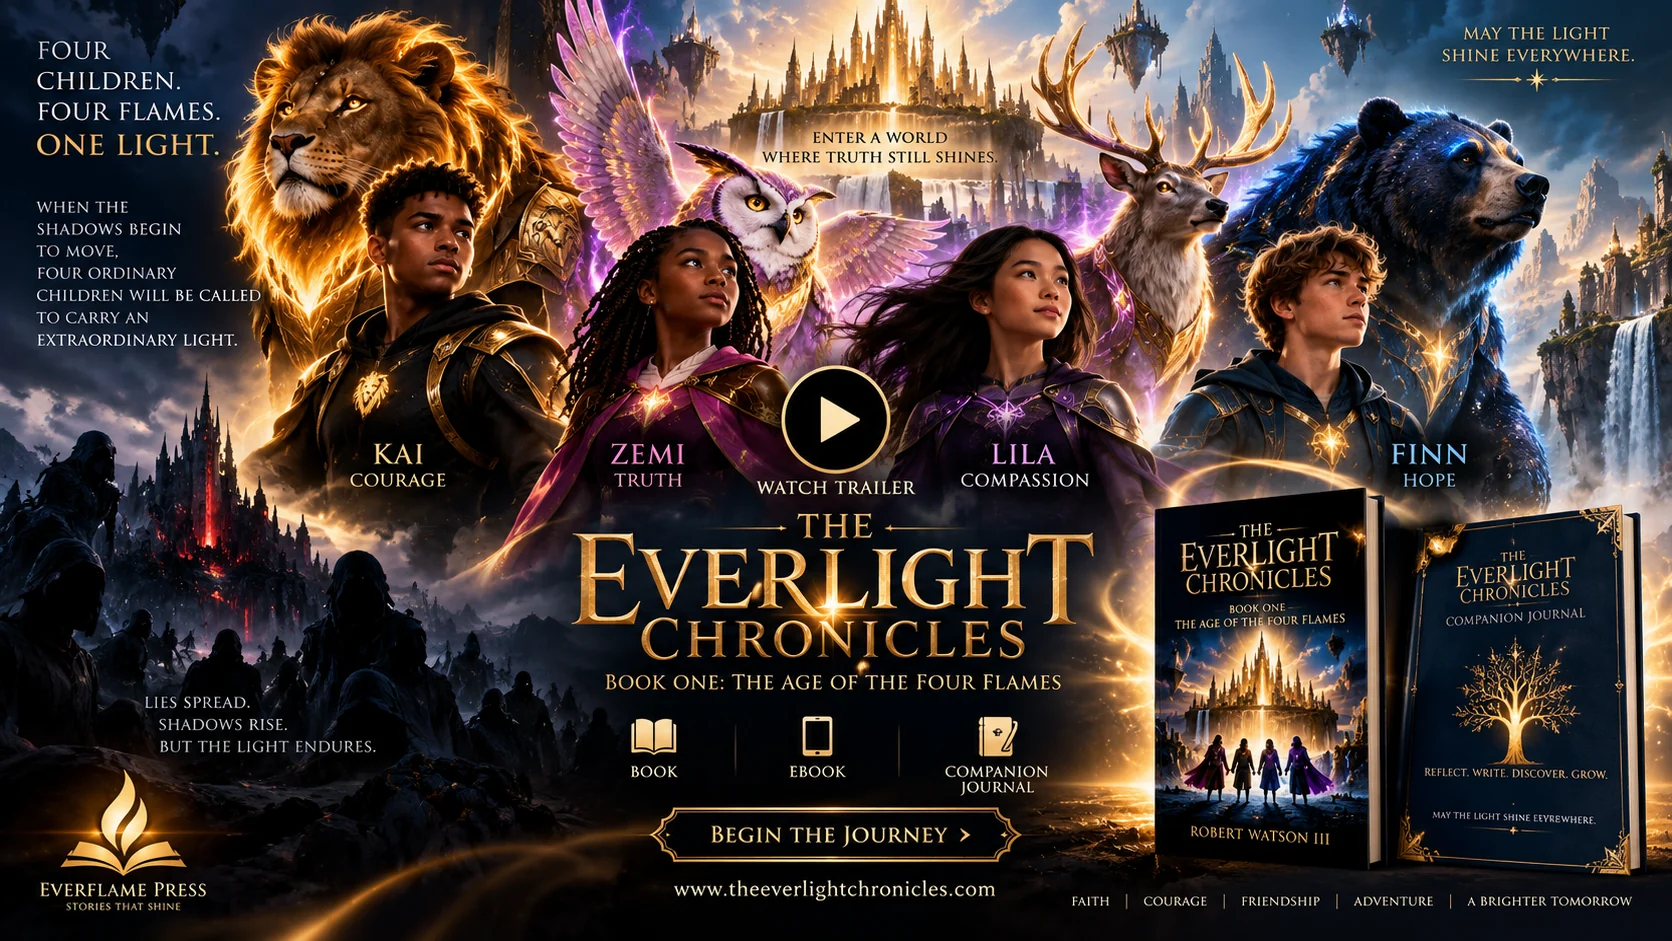
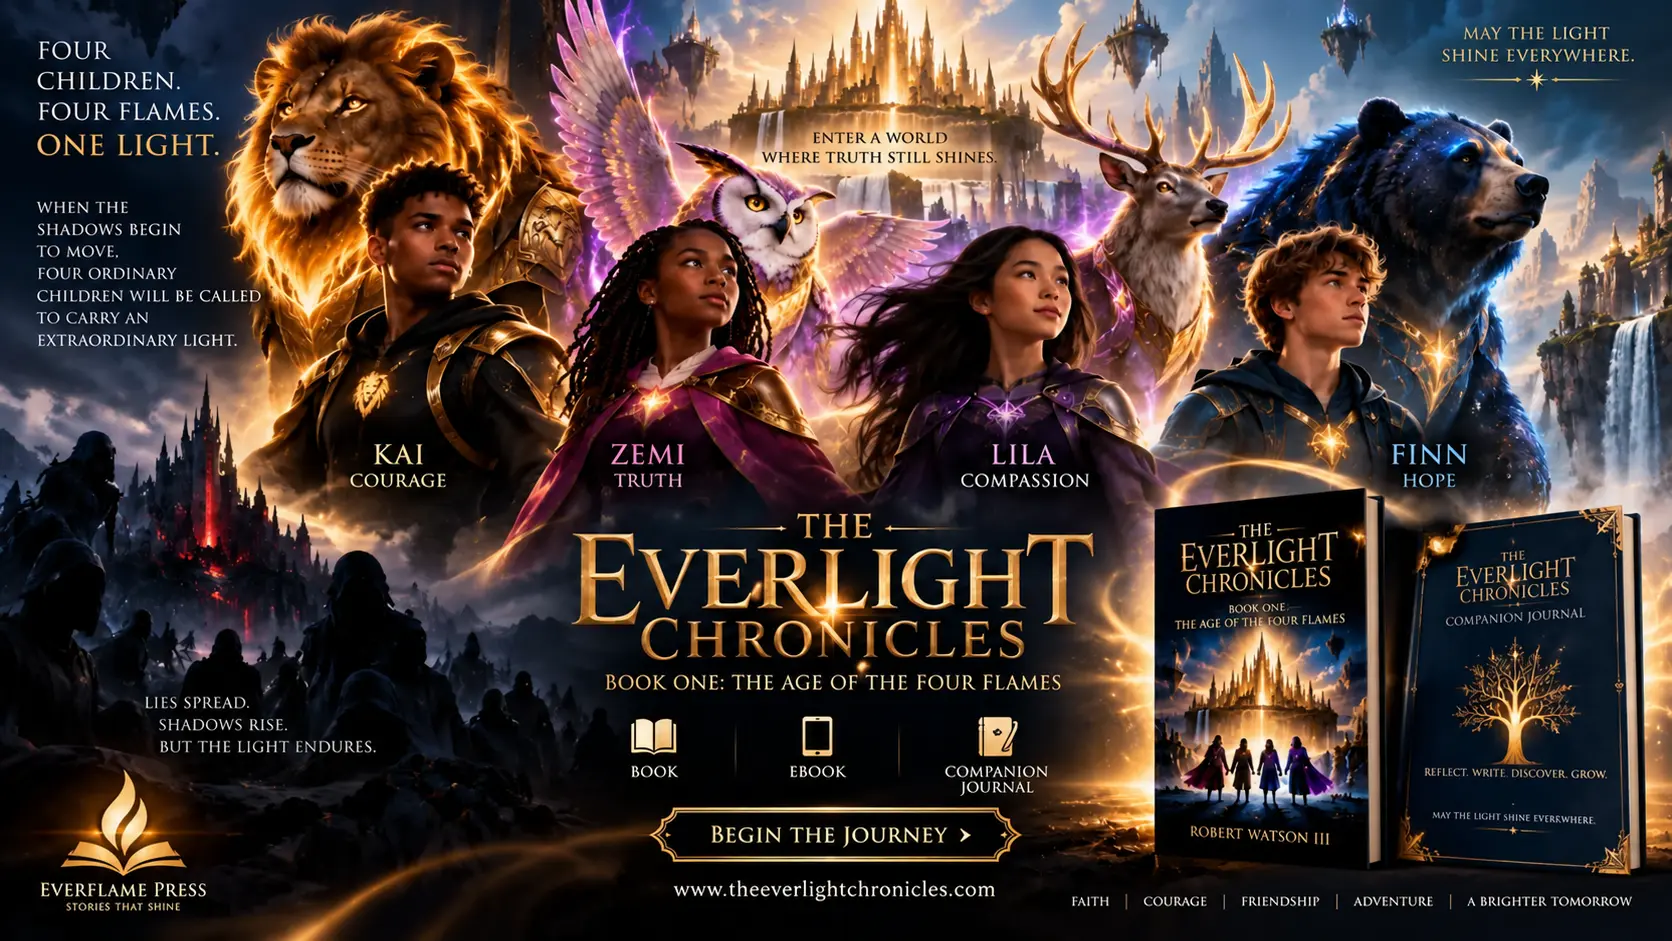
Restore soundtrack player and remove baked-in trailer button

diff --git a/index.html b/index.html
@@ -31,5 +31,6 @@
 <section class="author section" id="author"><div class="split reverse"><div class="author-img reveal"><img alt="Robert Watson III, author of The Everlight Chronicles" decoding="async" loading="lazy" src="assets/Meet the Fantasy Author.webp"/></div><div class="reveal"><p class="eyebrow">MEET THE AUTHOR</p><h2>Robert Watson III</h2><p>Creator of <em>The Everlight Chronicles</em>, a fantasy world built around truth, courage, hope, compassion, friendship, and choosing the Light when darkness offers an easier path.</p><blockquote>“Stories can do more than entertain — they can light the way.”</blockquote><a class="btn ghost" href="author.html">Read Robert's Story</a></div></div></section>
 <section class="journey" id="journey"><div class="journey-bg"></div><div class="reveal"><p class="eyebrow">BOOK ONE · AVAILABLE NOW</p><h2>Will You Carry the Light?</h2><p>Begin with <strong>The Age of the Four Flames</strong>, then continue the adventure with the Companion Journal.</p><div class="actions center"><a class="btn gold" href="https://www.lulu.com/shop/robert-watson-iii/the-everlight-chronicles/paperback/product-w484nzk.html" rel="noopener" target="_blank">Buy Paperback on Lulu</a><a class="btn gold" href="https://www.lulu.com/shop/robert-watson-iii/the-everlight-chronicles/ebook/product-kv4vedm.html" rel="noopener" target="_blank">Buy eBook on Lulu</a><a class="btn ghost" href="https://www.lulu.com/shop/robert-watson-iii/the-everlight-chronicles-companion-journal/paperback/product-57n7pm5.html" rel="noopener" target="_blank">Buy Companion Journal on Lulu</a></div><p class="motto">MAY THE LIGHT SHINE EVERYWHERE.</p></div></section>
 </main><div class="mobile-buy"><a href="https://www.lulu.com/shop/robert-watson-iii/the-everlight-chronicles/paperback/product-w484nzk.html" rel="noopener" target="_blank"><span>BOOK ONE</span><strong>Buy on Lulu →</strong></a></div>
+<audio id="everlightAudio" preload="metadata" src="assets/shepards-calling.mp3"></audio><aside aria-label="Everlight soundtrack player" class="music-player" id="musicPlayer"><button aria-label="Minimize music player" class="music-collapse" data-music-collapse="">—</button><div class="music-inner"><button aria-label="Play Shepard’s Calling" class="music-toggle" data-music-toggle="">▶</button><div class="music-meta"><span class="music-status" data-music-status="">EVERLIGHT SOUNDTRACK</span><div class="music-title">Shepard’s Calling</div><div class="music-subtitle">Soundtrack preview · Full collection coming soon</div></div><div class="music-timeline"><span data-music-elapsed="">0:00</span><input aria-label="Song progress" data-music-seek="" max="100" min="0" step="0.1" type="range" value="0"/><span data-music-duration="">4:40</span></div><div class="music-controls"><button aria-label="Mute soundtrack" class="music-mute" data-music-mute="">⌕</button><label class="music-volume"><span>VOL</span><input aria-label="Music volume" data-music-volume="" max="1" min="0" step="0.01" type="range" value="0.34"/></label><span class="music-credit">Music begins only when you press play.</span></div></div></aside>
 <div class="secret-lore" id="secretLore"><span>✦</span><strong>PROPHECY FRAGMENT UNLOCKED</strong><p>Four flames will rise when the shadow believes the world has forgotten the Light.</p></div>
-<footer><div class="brand"><span class="flame"><img alt="" aria-hidden="true" decoding="async" src="assets/everflame-press-logo.webp"/></span><span>EVERFLAME PRESS<br><small>STORIES FOR A BRIGHTER TOMORROW</small></br></span></div><p>THE EVERLIGHT CHRONICLES · © 2026 ROBERT WATSON III</p></footer><script src="script.js"></script><script src="site.js"></script></body></html>
+<footer><div class="brand"><span class="flame"><img alt="" aria-hidden="true" decoding="async" src="assets/everflame-press-logo.webp"/></span><span>EVERFLAME PRESS<br><small>STORIES FOR A BRIGHTER TOMORROW</small></br></span></div><p>THE EVERLIGHT CHRONICLES · © 2026 ROBERT WATSON III</p></footer><script src="script.js"></script><script src="music-player.js"></script><script src="site.js"></script></body></html>
